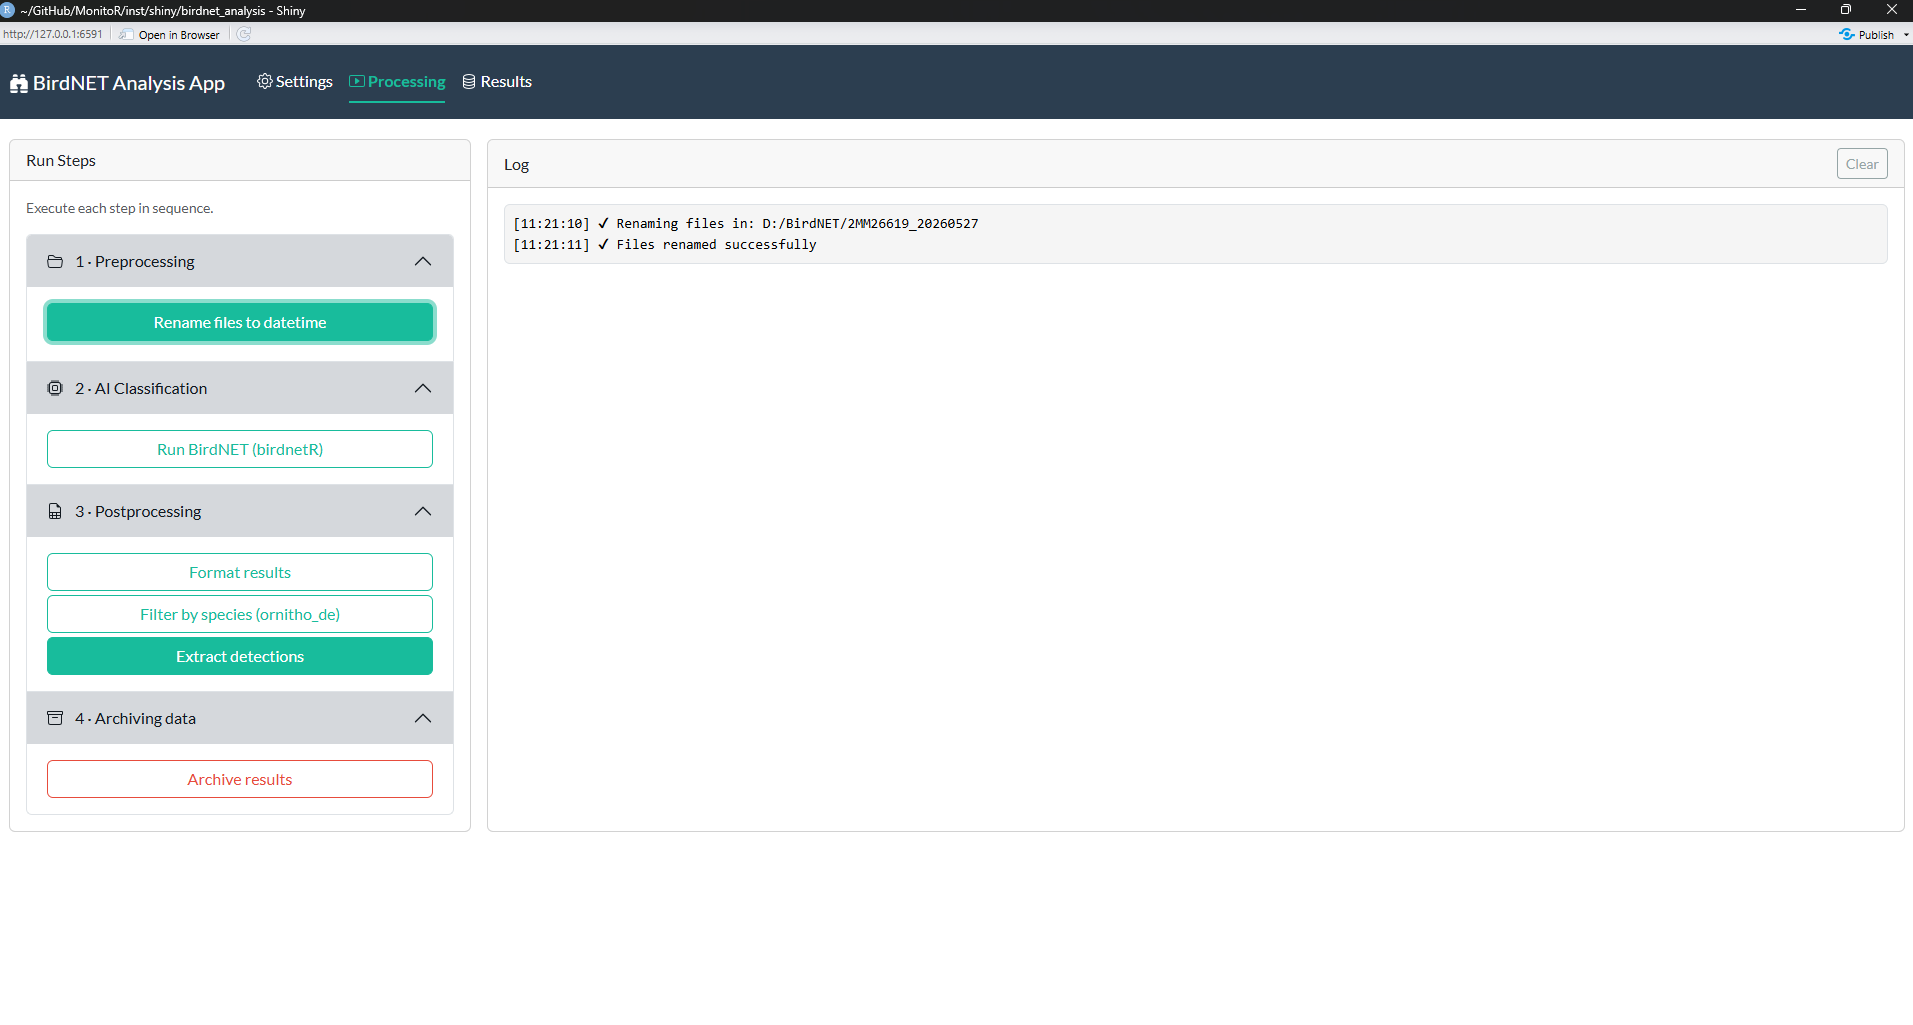
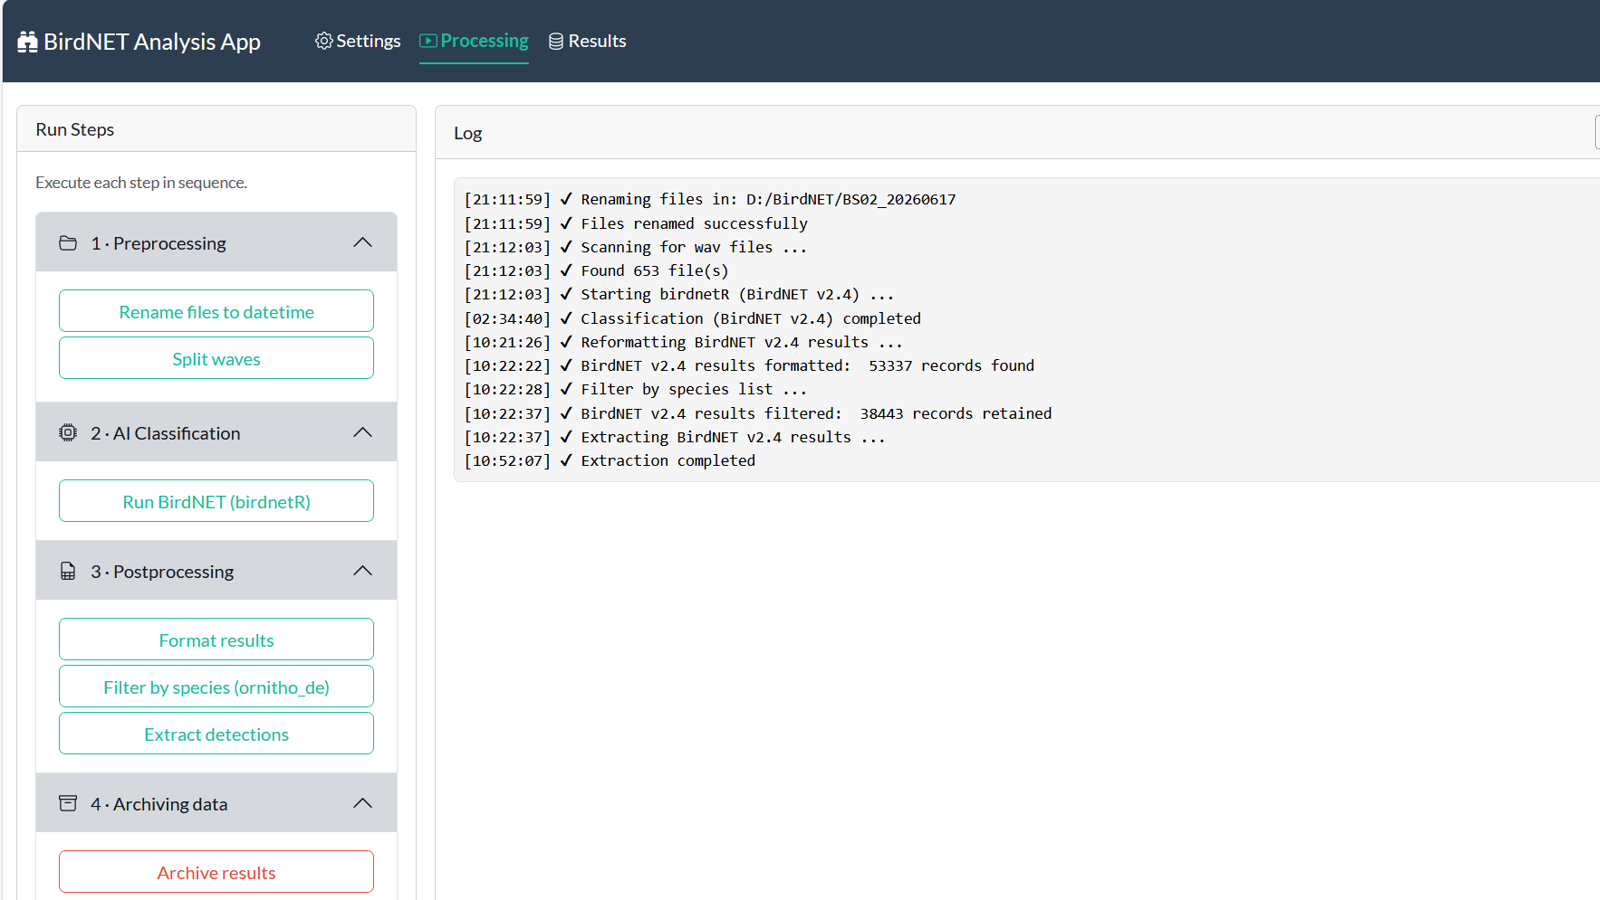
update

diff --git a/README.md b/README.md
@@ -5,16 +5,16 @@
 
 ------------------------------------------------------------------------
 
-This package provides workflows in form of `R Markdown` templates for
-processing monitoring data, for now mostly focusing on the analysis of
-audio files obtained by deploying passive acoustic monitoring (PAM)
-devices. The package partly relies on
+This package provides workflows in form of `R Markdown` templates &
+`Shiny-Apps` for processing monitoring data, for now mostly focusing on
+the analysis of long audio files obtained by deploying passive acoustic
+monitoring (PAM) devices. The package partly relies on
 [NocMigR2](github.com/mottensmann/NocMigR2). See details there.
 
-To install the package, use
-[devtools](https://github.com/r-lib/devtools):
+To install the package, use [pak](https://github.com/r-lib/pak):
 
 ``` r
+if (!"pak" %in% installed.packages()) install.packages("pak")
 pak::pak("mottensmann/MonitoR", dependencies = TRUE)
 ```
 
@@ -34,7 +34,7 @@ using [birdnetR](github.com/birdnet-team/birdnetR):
 birdnet_app(display = "external")
 ```
 
-<img src="README_files/app1.png" width="613" style="display: block; margin: auto;" /><img src="README_files/app2.png" width="612" style="display: block; margin: auto;" /><img src="README_files/app3.png" width="613" style="display: block; margin: auto;" />
+<img src="README_files/app1.png" width="1408" style="display: block; margin: auto;" /><img src="README_files/app2.png" width="512" style="display: block; margin: auto;" /><img src="README_files/app3.png" width="512" style="display: block; margin: auto;" /><img src="README_files/app4.png" width="512" style="display: block; margin: auto;" />
 
 ## `RMarkdown Templates`
 
@@ -50,6 +50,9 @@ validation of audio data classified using
 - 2)  Extracting results obtained by using a AI-based classifier with
       [BirdNET-Analyzer](https://github.com/kahst/BirdNET-Analyzer)
 - 3)  Archiving manually verified records to a xlsx-database
+
+*Not further developed. Easier implementation provided in form of the
+Shiny-App*
 
 ### `nestcamera`
 
